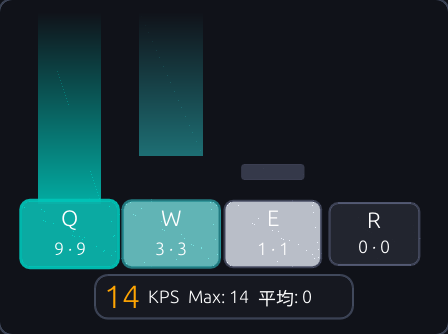
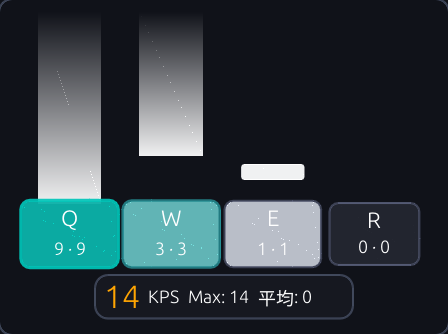
feat(kps): 键雨固定颜色 + 按排递进宽度与不透明度
- 多层键位时第 1 排永远保持原始宽度与不透明度，第 2 排起逐排收窄（x0.85）并变淡（x0.72）
  修「前后两列的键同时按时第一列键雨变窄」
- 键雨颜色与 KPS 热度解耦，固定取 kps_rain_color（默认纯白），设置窗口可取色
- 新增第 4 张 HUD 截图场景 kps-rain-rows 与 debug_set_kps_keys
- README/docs 同步：分排效果说明 + kps_rain_color + 新增 screenshot-kps-rain-rows.png

Changed region(s): [[0.0625, 0.0898, 0.25, 0.5988], [0.3125, 0.0599, 0.4688, 0.479], [0.5312, 0.479, 0.6875, 0.5389]]

diff --git a/src/gui/rain.rs b/src/gui/rain.rs
@@ -16,8 +16,14 @@
 //! 坐标约定：
 //! - `speed` 由「走完整个轨道要几毫秒」换算（换轨道高度不改观感）；
 //! - 渐隐带固定在**轨道顶部 1/3**：进入 [2H/3, H] 后从满亮线性淡到 0，H 以上完全不可见；
-//! - 条宽 = 键格宽 × 0.72（**略窄于键格**，看起来是键格上长出的一根柱子）；
-//! - 多排布局时第 2 排起逐排**变窄 + 加深一档**，所有排共用同一条轨道（轨道底边 = 第一排键格顶边）。
+//! - 条宽 = 键格宽 × `kps_rain_width_pct`（**略窄于键格**，看起来是键格上长出的一根柱子）；
+//! - 颜色固定取 `kps_rain_color`（默认纯白），**不随 KPS 热度变色** —— 雨是"运动轨迹"，
+//!   跟着热度变色会让人误以为自己按多快，而且和键格本身的发光混在一起看不出层次。
+//!
+//! 多层布局（`kps_keys` 里换行 = 分行）：所有排共用同一条轨道（轨道底边 = 第一排键格顶边），
+//! 但**排号越大越窄、越透明**（`ROW_WIDTH_STEP` / `ROW_ALPHA_STEP`）：
+//! 第一排永远是原始宽度与不透明度，第二排起逐排收窄并降低 alpha。这样两排同一竖线上的键
+//! 同时按下时，能看到"前景窄条叠在背景宽条上"，而不是两个同宽条糊成一块。
 //!
 //! 来源（样式参照）：https://github.com/adofaiex/JipperKeyViewer
 
@@ -31,8 +37,11 @@ const BAR_W_RATIO: f32 = 0.72;
 /// 条宽绝对上下限（px）：极小缩放下不至于细成线，极大缩放下不至于糊成整块。
 const BAR_W_MIN: f32 = 4.0;
 const BAR_W_MAX: f32 = 64.0;
-/// 每排键格的递进系数：第 2 排起宽度 ×0.85、颜色加深一档。
+/// 排间宽度递进系数：第 1 排 ×1.00（原始宽度），第 2 排 ×0.85，第 3 排 ×0.72…
 const ROW_WIDTH_STEP: f32 = 0.85;
+/// 排间不透明度递进系数：第 1 排 ×1.00，第 2 排 ×0.72，第 3 排 ×0.52…
+/// **只降 alpha，不改颜色** —— 靠压暗颜色做层次会在深色背景上变成一团脏灰。
+const ROW_ALPHA_STEP: f32 = 0.72;
 /// 取样窗口（秒）。**故意给得远大于"走完一条轨道"**：
 /// 松手后的雨还要继续上飘、还要能被裁短，若窗口等于走完轨道的时间，
 /// 松手瞬间整条雨就会因为"按下太久"被丢掉 —— 那正是"松手即消失"的根因。
@@ -83,21 +92,13 @@ fn fade_at(d_from_top: f32, h: f32) -> f32 {
     d_from_top.max(0.0).min(band) / band
 }
 
-/// 键雨的基准色：跟随该键热力（与键格边框同源）。
-/// `dim` = 额外压暗档位（多排递进用，0 = 不压）。
-fn rain_color(heat: f32, alpha: u8, dim: u32) -> Color32 {
-    let (_, border, _) = key_heat_style(heat, 0.0);
-    let c = border.color.to_array();
-    if dim == 0 {
-        return Color32::from_rgba_unmultiplied(c[0], c[1], c[2], alpha);
-    }
-    let f = (1.0 - 0.18 * dim as f32).max(0.3);
-    Color32::from_rgba_unmultiplied(
-        (c[0] as f32 * f) as u8,
-        (c[1] as f32 * f) as u8,
-        (c[2] as f32 * f) as u8,
-        alpha,
-    )
+/// 键雨的固定基色（`kps_rain_color`，默认纯白）。
+///
+/// **不跟随 KPS 热度**：雨条是"这次按压的运动轨迹"，与手速无关；跟着热度变色会让同一个键
+/// 在不同时刻呈现不同颜色，和键格自身的发光混在一起反而看不出层次。
+pub(crate) fn rain_base_color(cfg: &Config) -> Color32 {
+    let c = cfg.kps_rain_color;
+    Color32::from_rgb(c[0], c[1], c[2])
 }
 
 /// 画一帧键雨（无状态：整条雨每帧从按压区间纯几何重建）。
@@ -117,14 +118,19 @@ pub(crate) fn paint_kps_rain(
     let h = rain_area.height();
     let speed = rain_px_per_sec(cfg);
     let opacity = cfg.kps_rain_opacity.min(100) as f32 / 100.0;
+    let base = rain_base_color(cfg);
     let painter = ui.painter().with_clip_rect(rain_area);
     let row_pos = key_rows_layout(&layout.rows, m.box_w, m.graph_w);
 
-    // 轨道底边 = 第一排键格顶边；多排布局下所有排共用同一条轨道。
+    // 轨道底边 = 第一排键格顶边；多层布局下所有排共用同一条轨道。
     let cell_top = rain_area.bottom();
 
     let mut info_idx = 0usize;
     for (row, cells) in layout.rows.iter().enumerate() {
+        // 排间递进：第 1 排（row = 0）恒为 1.00，即**原始宽度与原始不透明度**。
+        // 这一点是硬约束：只要第一排按过键，它的雨就必须和你单独按它时一模一样。
+        let step = ROW_WIDTH_STEP.powi(row as i32);
+        let alpha_scale = ROW_ALPHA_STEP.powi(row as i32);
         for (cell_idx, cell) in cells.iter().enumerate() {
             let Some(&(x_off, box_w)) = row_pos.get(row).and_then(|r| r.get(cell_idx)) else {
                 break;
@@ -133,9 +139,9 @@ pub(crate) fn paint_kps_rain(
                 info_idx += 1; // 空位：占地方，不画不统计
                 continue;
             }
-            let Some(k) = kd.key_infos.get(info_idx) else {
+            if kd.key_infos.get(info_idx).is_none() {
                 break;
-            };
+            }
             let idx = info_idx;
             info_idx += 1;
             let Some(spans) = kd.rain.get(idx) else {
@@ -145,9 +151,6 @@ pub(crate) fn paint_kps_rain(
                 continue;
             }
             let cx = rain_area.left() + x_off + box_w * 0.5;
-            let heat = crate::stats::kps_key_heat(k.kps);
-            let step = ROW_WIDTH_STEP.powi(row as i32);
-            let dim = row.min(3) as u32;
             let w = (box_w * rain_width_ratio(cfg)).clamp(BAR_W_MIN, BAR_W_MAX) * step;
 
             for &(start_age, end_age) in spans {
@@ -174,7 +177,7 @@ pub(crate) fn paint_kps_rain(
                     continue;
                 }
                 emit_bar(
-                    &painter, cx, w, cell_top, vis_top, vis_bottom, h, opacity, heat, dim,
+                    &painter, cx, w, cell_top, vis_top, vis_bottom, h, opacity, base, alpha_scale,
                 );
             }
         }
@@ -192,16 +195,17 @@ fn emit_bar(
     vis_bottom: f32,
     h: f32,
     opacity: f32,
-    heat: f32,
-    dim: u32,
+    base: Color32,
+    alpha_scale: f32,
 ) {
     let a_top = fade_at(h - vis_top, h);
     let a_bot = fade_at(h - vis_bottom, h);
-    let alpha_top = (a_top * opacity * 255.0).round() as u8;
-    let alpha_bot = (a_bot * opacity * 255.0).round() as u8;
+    let alpha_top = (a_top * opacity * alpha_scale * 255.0).round() as u8;
+    let alpha_bot = (a_bot * opacity * alpha_scale * 255.0).round() as u8;
     if alpha_top == 0 && alpha_bot == 0 {
         return;
     }
+    let tint = |a: u8| Color32::from_rgba_unmultiplied(base.r(), base.g(), base.b(), a);
     // vis_* 是「距键格顶边的高度」：数值大的一端离**轨道顶**近，在屏幕上更靠上（y 更小）。
     // Rect::from_min_max 要求 min <= max，而这里 vis 越大 y 越小，两者方向相反 ——
     // 必须显式取 min/max，否则画出来是空矩形（rect_filled 直接不可见，
@@ -214,15 +218,15 @@ fn emit_bar(
         painter.rect_filled(
             Rect::from_min_max(Pos2::new(xl, y_hi), Pos2::new(xr, y_lo)),
             1.5,
-            rain_color(heat, alpha_bot, dim),
+            tint(alpha_bot),
         );
     } else {
         // 跨渐隐带：Mesh 顶点色做竖向渐变
         let mut mesh = egui::Mesh::default();
-        mesh.colored_vertex(Pos2::new(xl, y_a), rain_color(heat, alpha_top, dim));
-        mesh.colored_vertex(Pos2::new(xr, y_a), rain_color(heat, alpha_top, dim));
-        mesh.colored_vertex(Pos2::new(xl, y_b), rain_color(heat, alpha_bot, dim));
-        mesh.colored_vertex(Pos2::new(xr, y_b), rain_color(heat, alpha_bot, dim));
+        mesh.colored_vertex(Pos2::new(xl, y_a), tint(alpha_top));
+        mesh.colored_vertex(Pos2::new(xr, y_a), tint(alpha_top));
+        mesh.colored_vertex(Pos2::new(xl, y_b), tint(alpha_bot));
+        mesh.colored_vertex(Pos2::new(xr, y_b), tint(alpha_bot));
         mesh.add_triangle(0, 1, 2);
         mesh.add_triangle(1, 3, 2);
         painter.add(egui::Shape::mesh(mesh));

diff --git a/src/softshot.rs b/src/softshot.rs
@@ -2517,6 +2517,8 @@ mod tests {
         // 而重复喂击键又会让 KPS 时间轴越叠越高（踩过：KPS 虚高到 112、最新一根柱顶满）。
         // 顺序固定：清空 → 键格基础打点 → 图的历史柱 → 键雨的击键。
         let today_feed = today.clone();
+        // 多个场景闭包各持一份，避免 move 之后互相抢所有权
+        let today_rows = today.clone();
         let feed_scene = move |app: &mut App| {
             app.debug_reset_kps();
             // 键格的冷热（Q 最热 → 青绿边框）
@@ -2665,6 +2667,49 @@ mod tests {
         let p4 = capture(&mut app, &ctx, &mut shot_textures, "kps-rain-both", true, &feed_scene, false, &hud_spec);
         assert!(p4.exists());
 
+        // 4) 两排键同时按：验证「第一排宽度/不透明度不变，第二排起逐排变窄变淡」
+        //    —— 这是用户报的 bug：两排同列同时按时，雨的宽度不该互相影响，
+        //    否则第一排会莫名其妙变窄。这里两排每次都按满，第一排 Q/W/E 必须保持原宽。
+        app.debug_set_kps_keys("Q, W, E\nA, S, D");
+        {
+            let feed_rows = move |app: &mut App| {
+                app.debug_reset_kps();
+                for _ in 0..5 {
+                    app.debug_record_kps_key(&today_rows, "Q");
+                    app.debug_record_kps_key(&today_rows, "A");
+                }
+                for _ in 0..3 {
+                    app.debug_record_kps_key(&today_rows, "W");
+                    app.debug_record_kps_key(&today_rows, "S");
+                }
+                app.debug_record_kps_key(&today_rows, "E");
+                app.debug_record_kps_key(&today_rows, "D");
+                // 两排同列（第 1 列 / 第 2 列）同时按住，看宽度是否互相干扰
+                for (key, start, end) in [
+                    ("Q", 3000u64, None),
+                    ("A", 3000, None),
+                    ("W", 2000, Some(600)),
+                    ("S", 2000, Some(600)),
+                    ("E", 900, Some(400)),
+                    ("D", 900, Some(400)),
+                ] {
+                    app.debug_push_hold(key, start, end);
+                }
+            };
+            let p5 = capture(
+                &mut app,
+                &ctx,
+                &mut shot_textures,
+                "kps-rain-rows",
+                true,
+                &feed_rows,
+                false,
+                &hud_spec,
+            );
+            assert!(p5.exists());
+        }
+        app.debug_set_kps_keys("Q, W, E, R");
+
         // —— 再拍一张 APM 胶囊条特写（宽度贴合内容）——
         app.hud_kps_show = false;
         app.hud_apm_show = true;
@@ -2684,7 +2729,11 @@ mod tests {
     fn render_kps_settings_shot() {
         let dir = std::env::var("KMCOUNTER_HUD_SHOT_DIR").unwrap_or_else(|_| "/tmp/kmc-hud-shot".into());
         std::fs::create_dir_all(&dir).unwrap();
-        let (mut app, ctx) = headless_app(store_with_days(5));
+        // 把键雨打开：设置窗里的「键雨宽度 / 速度 / 高度 / 不透明度 / 颜色」整组都出现，
+        // 才算把「下拉框、数值框、颜色按钮的文字看不看得清」一起覆盖到。
+        let mut cfg = Config::default();
+        cfg.kps_show_rain = true;
+        let (mut app, ctx) = headless_app_with_cfg(store_with_days(5), cfg);
         app.hud_kps_show = false;
         app.debug_set_cfg_open(false, true);
         let s: &'static crate::lang::Strings = crate::lang::strings(crate::lang::Lang::En);

diff --git a/src/gui/hud.rs b/src/gui/hud.rs
@@ -1151,6 +1151,7 @@ impl App {
         cfg.kps_rain_speed = self.cfg.kps_rain_speed;
         cfg.kps_rain_height = self.cfg.kps_rain_height;
         cfg.kps_rain_opacity = self.cfg.kps_rain_opacity;
+        cfg.kps_rain_color = self.cfg.kps_rain_color;
         cfg.kps_key_bounce = self.cfg.kps_key_bounce;
         cfg.kps_groups = self.cfg.kps_groups.clone();
         cfg.kps_show_groups = self.cfg.kps_show_groups;
@@ -1735,6 +1736,23 @@ impl App {
             }
             ui.label(egui::RichText::new("%").color(HUD_TEXT));
         });
+        // 键雨颜色：默认纯白。键雨**不跟随 KPS 热度**，所以颜色必须能在设置里自己调。
+        ui.horizontal(|ui| {
+            ui.label(egui::RichText::new(s.kps_rain_color).color(HUD_TEXT));
+            if ui.color_edit_button_srgb(&mut self.cfg.kps_rain_color).changed() {
+                act.dirty = true;
+            }
+            ui.label(
+                egui::RichText::new(format!(
+                    "#{:02X}{:02X}{:02X}",
+                    self.cfg.kps_rain_color[0],
+                    self.cfg.kps_rain_color[1],
+                    self.cfg.kps_rain_color[2]
+                ))
+                .small()
+                .color(Color32::from_rgb(0xC8, 0xCC, 0xD4)),
+            );
+        });
     }
 
     /// 分组 KPS：勾选 + 多行文本编辑（一行一组，组名=A,S,D,F）
@@ -1906,6 +1924,13 @@ impl App {
         c.kps_show_rain = show;
         c.kps_show_graph = graph;
         c.kps_rain_speed = speed;
+    }
+
+    /// 截图用：直接改共享配置里的监控键（换行 = 分行），用来验证多层排布
+    #[cfg(feature = "softshot")]
+    #[allow(dead_code)]
+    pub(crate) fn debug_set_kps_keys(&mut self, keys: &str) {
+        self.cfg_shared.lock().kps_keys = keys.to_string();
     }
 
     #[cfg(feature = "softshot")]
@@ -2347,6 +2372,7 @@ pub(crate) fn copy_hud_fields(from: &crate::config::Config, to: &mut crate::conf
     to.kps_rain_speed = from.kps_rain_speed;
     to.kps_rain_height = from.kps_rain_height;
     to.kps_rain_opacity = from.kps_rain_opacity;
+    to.kps_rain_color = from.kps_rain_color;
     to.kps_key_bounce = from.kps_key_bounce;
     to.kps_groups = from.kps_groups.clone();
     to.kps_show_groups = from.kps_show_groups;

diff --git a/src/lang.rs b/src/lang.rs
@@ -254,6 +254,7 @@ pub struct Strings {
     pub kps_rain_speed: &'static str,
     pub kps_rain_height: &'static str,
     pub kps_rain_height_auto: &'static str,
+    pub kps_rain_color: &'static str,
     pub kps_rain_opacity: &'static str,
     pub kps_key_bounce: &'static str,
     pub kps_groups: &'static str,
@@ -506,6 +507,7 @@ const ZH: Strings = Strings {
     kps_rain_speed: "键雨速度（ms/轨道）",
     kps_rain_height: "键雨高度",
     kps_rain_height_auto: "自动",
+    kps_rain_color: "键雨颜色",
     kps_rain_opacity: "键雨不透明度",
     kps_key_bounce: "按键弹跳",
     kps_groups: "分组 KPS",
@@ -758,6 +760,7 @@ const EN: Strings = Strings {
     kps_rain_speed: "Rain speed (ms/track)",
     kps_rain_height: "Rain height",
     kps_rain_height_auto: "Auto",
+    kps_rain_color: "Rain color",
     kps_rain_opacity: "Rain opacity",
     kps_key_bounce: "Key bounce",
     kps_groups: "Group KPS",

diff --git a/src/config.rs b/src/config.rs
@@ -106,6 +106,9 @@ pub struct Config {
     pub kps_rain_width_pct: u8,
     /// 键雨不透明度（0~100）
     pub kps_rain_opacity: u8,
+    /// 键雨颜色（RGB，默认纯白）。键雨**不跟随 KPS 热度变色** —— 雨条是「这次按压的
+    /// 运动轨迹」，跟着手速变色会和键格自身的发光混在一起，看不出层次。
+    pub kps_rain_color: [u8; 3],
     /// 键格按压弹跳：按下瞬间放大再回弹（对齐 JipperKeyViewer 的 KeyShapeLayer）
     pub kps_key_bounce: bool,
     /// 按组 KPS 分组定义：一行一组，格式 `组名=A,S,D,F`（组名可省略）
@@ -178,6 +181,7 @@ impl Default for Config {
             kps_rain_height: 96,
             kps_rain_width_pct: 72,
             kps_rain_opacity: 85,
+            kps_rain_color: [255, 255, 255],
             kps_key_bounce: true,
             kps_groups: String::new(),
             kps_show_groups: false,

diff --git a/README.md b/README.md
@@ -36,6 +36,10 @@
 | --- | --- |
 | ![键雨与 KPS 图](docs/screenshot-kps-rain-both.png) | ![APM 胶囊条](docs/screenshot-apm-hud.png) |
 
+两排键同时按住时的分排效果（第一排保持原宽原色，第二排起逐排变窄变淡）：
+
+![键雨分排](docs/screenshot-kps-rain-rows.png)
+
 ## 功能
 
 - **键盘热力图**：复刻原版布局（主键区 + 导航区 + 数字键盘区），并补上原版缺的 **PrtSc / ScrLk / Pause** 三个系统键——它们**按控制键区管理**（画在控制键区顶部一行，统计也计入控制键区）；按键越常按颜色越深（莫兰迪渐变 `#EEEEEE → #B26C65`）；鼠标悬停按键显示当日敲击次数。**方向键上方空着的 5 个格子**画了鼠标左/中/右键与滚轮/侧键：它们用**独立的绿色计数池**（量程只看这五个键，与键盘的红系互不影响，所以滚轮 5000 次和键盘最多 100 次可以各自到最深色），悬停显示各自计数
@@ -59,7 +63,7 @@
 - **设置**：历史保留天数、显示器物理尺寸、热力图键宽/键高/间距、**界面语言（跟随系统 / 中文 / English）**、窗口行为与**分时阈值**，保存立即生效（与统计列表同一套浅色风格，左右并排展开；设置表单按「历史数据 + 屏幕尺寸 / 键盘布局 / 语言 + 窗口 + 数据校验」**分三栏**排列，展开后高度更紧凑）；切换语言会同时更新窗口标题与托盘菜单，没有中文字体时中文自动回退英文并给出提示
 - **主流多配列键盘支持**：除标准 104 键外，原生支持 **98键（紧凑全尺寸）、87键（TKL）、84键（75%）、68键（65%）、64键（GK64）、60键** 等主流键盘配列切换与自适应画布，小配列下分时折线图与钟点控制紧凑排布；为 Fn 键分配独立按键定义（`FN_INDEX 104`），彻底解除与 Menu 键的绑定冲突；设置面板自适应防溢出，在各类小配列及中英双语下保持整洁排版
 - **实时 APM 与独立 HUD 胶囊悬浮窗**：高精度实时 APM 统计（滑动窗口 5~300 秒可调，**数值 = 窗口内的动作数**：60 秒窗口下点一次就是 1 APM，窗口调短也不会放大倍率）；采用独立多视口架构打造 **32 高、宽度贴合内容的超紧凑无边框置顶暗黑胶囊条**（显示项越多越宽，右侧不再留空），可与主程序无缝并存；显示实时 APM、今日最高峰值 APM 与今日敲击数（键盘 / 鼠标点击 / 移动距离三项可在设置里逐项开关）。**胶囊条本身只有数据、没有任何按钮**：按住拖动移动、双击呼出主程序、**右键打开它自己的设置窗口**（统计窗口长度、显示项、**缩放 60~400%**、**限制在屏幕内**、不透明度、重置峰值、呼出主程序、关闭悬浮窗）。**KDE 下「置顶」由自动写入的 KWin 规则强制生效**（Wayland 没有置顶协议，winit 的 `always_on_top` 是空实现），非 KDE 的 Wayland 桌面只能保持普通窗口层级
-- **KPS 手速与按键发光监控悬浮窗**：参照 `osu-kps` 与 `KeysPerSecond` 实现的独立置顶透明悬浮窗；**KPS 速率只统计设置里监控的那些键**（打字与其它按键不会把数字抬起来，单键累计次数照旧各键各记）；提供**按住保持点亮 + 松开 50→250ms 淡出**的按键发光反馈（对齐 osu-kps 的 down/up 动画，**长按期间不会中途熄灭**）、**每个键格同时显示该键的累计次数与它自己的 KPS**、实时 KPS 速率、Max 峰值、平均 KPS（自上次重置起的会话平均，对齐 KeysPerSecond 的 AVG 计数器）与动态速率变色阶（**键格颜色对齐 osu-kps 的两条动画**：边框色相按该键自己的 KPS 经 2→4 次/秒的 sigmoid 插值渐入，按压频率降下来时沿原路缓慢退回；底板在按下瞬间亮起、随后 50→250ms 淡出——慢速按下闪浅灰、高速按下闪青绿）。**布局是可自由组合的几块 —— 键雨 / 键位 / 数据 / 分组 / 图**：最上面是**按键雨**（对齐 JipperKeyViewer 的 RainLayer，但这里是**无状态几何重建**：每帧从「每个键的按压区间」直接算出整条雨，按住期间**持续发射**、松手即停，已发射出去的部分**不停下**——长度定格后整条继续按原速上飘，前沿越过轨道顶后改从**底部**被逐段裁掉，直到整条出顶才消失（对齐 JipperKeyViewer 的 `sizeY = FinalSize.y - dropY + height`）；竖条从键格顶边向上长成连续一根，**条宽默认键格宽的 72%**（略窄于键格，两侧各留约 14% 的边，可在 20~100% 之间调）；渐隐带固定在**轨道顶部 1/3**（进入后线性淡到 0）；速度配置的是**走完整个轨道要多少毫秒**（200~20000，默认 1200 —— 换轨道高度不改观感）、轨道高度 16~400 像素（默认 96）、不透明度 0~100%，多排键位时第 2 排起逐排变窄并压暗一档，所有排共用同一条轨道），再下面是键格（可多行；**每行缝隙等宽、按键左右对称**——两侧边距与键缝一样宽，右侧不会空出一大块；**按压弹跳**让按下的键格瞬间放大 7.5% 再回弹，对齐 JipperKeyViewer 的 KeyShapeLayer），中间一行数据（**当前 KPS · Max · 平均**，数字按实测宽度往后排，KPS 到两三位数也不会和标签挤在一起），**分组 KPS 行**（把键位任意拆组、逐组显示「组名 速率 KPS (次数)」，例如左手 A,S,D,F、右手 J,K,L,；——对齐 JipperKeyViewer 的 GroupId；写法是一行一组 `组名=键1,键2`，组名可省略），最下面是**整宽的 KPS 图**（KPS 与 APM 定位不同，窗口比胶囊条大得多）。**键雨与 KPS 图是两个互相独立的开关，三种组合都成立**：只开图 = osu-kps 式的经典柱状图；只开键雨 = JipperKeyViewer 式的纯击键轨迹；两者都开则既有瞬时轨迹也有历史趋势（信息量最高，是本项目的差异点）；都关则只留键格与数字，压缩成一条极简计时条。**KPS 图**（参照 osu-kps）：按**整秒分桶**的历史柱状图（每秒一根柱，峰值一秒后自然左移消失，不会拖尾）、叠一条平均线，悬停显示该时段内的最大 KPS，图时长可调（10~300 秒，默认 300）；**计算方式**可选 `硬算`（严格数统计窗口内的次数，稳定）或 `灵敏`（对齐 osu-kps：只看最近 2.5 秒、单次击键最多算 1.5，连击时贴近真实速率、停下来立刻回落）；**键格布局直接写在「监控按键」里**（零学习成本的一套小语法，设置窗口里是多行输入框）：**换行 = 分行**（不写换行时每行最多 12 个自动换行）；**空项 = 空位**（`,,H,J` 把 H、J 挪到第 3、4 列）；**数字前缀 = 宽度倍数**（`1.5H` 让 H 占 1.5 格、`4H` 占 4 格）；**自适应键宽**（可勾选开关）让**最后一行的键平分整行宽度 —— 如 5 格宽的行上放 `H,J`，两者各 2.5 格宽**。**缩放**（60~400%）与**限制在屏幕内**都在**它自己的设置窗口**里（右键悬浮窗打开）；**键位设置**参照 osu-kps：填「键数」N 后点「设置键位」，程序会依次记录你按下的 N 个键作为监控键（默认键位是 `qwertyuiopasdfghjklzxcvbnm` 的前 N 个，如 6 键 = q,w,e,r,t,y，也可以点「默认键位」一键恢复）；按键格子 / 统计信息 / KPS 图 / 按键雨 / 分组 KPS 五块可分别开关；**重置**是个下拉菜单（对齐 osu-kps）：可分别清空**按键总次数 / 最大 KPS / KPS 图**，或一键**以上所有**（平均 KPS 也从头算）。两个悬浮窗都会**静默记忆上次拖放的位置**（写进配置文件，重启 / 重新登录后回到原位，无设置项；「限制在屏幕内」开启时恢复的位置若在屏幕外会被自动推回）。位置记忆与屏幕内限制在 Windows / X11 / KDE Wayland 上可用（KDE 走 KWin 脚本通道），其它 Wayland 桌面因协议限制不可用。悬浮窗与其设置窗口的文字都是白色，深色底上看得清；不读取任何其它程序的窗口状态
+- **KPS 手速与按键发光监控悬浮窗**：参照 `osu-kps` 与 `KeysPerSecond` 实现的独立置顶透明悬浮窗；**KPS 速率只统计设置里监控的那些键**（打字与其它按键不会把数字抬起来，单键累计次数照旧各键各记）；提供**按住保持点亮 + 松开 50→250ms 淡出**的按键发光反馈（对齐 osu-kps 的 down/up 动画，**长按期间不会中途熄灭**）、**每个键格同时显示该键的累计次数与它自己的 KPS**、实时 KPS 速率、Max 峰值、平均 KPS（自上次重置起的会话平均，对齐 KeysPerSecond 的 AVG 计数器）与动态速率变色阶（**键格颜色对齐 osu-kps 的两条动画**：边框色相按该键自己的 KPS 经 2→4 次/秒的 sigmoid 插值渐入，按压频率降下来时沿原路缓慢退回；底板在按下瞬间亮起、随后 50→250ms 淡出——慢速按下闪浅灰、高速按下闪青绿）。**布局是可自由组合的几块 —— 键雨 / 键位 / 数据 / 分组 / 图**：最上面是**按键雨**（对齐 JipperKeyViewer 的 RainLayer，但这里是**无状态几何重建**：每帧从「每个键的按压区间」直接算出整条雨，按住期间**持续发射**、松手即停，已发射出去的部分**不停下**——长度定格后整条继续按原速上飘，前沿越过轨道顶后改从**底部**被逐段裁掉，直到整条出顶才消失（对齐 JipperKeyViewer 的 `sizeY = FinalSize.y - dropY + height`）；竖条从键格顶边向上长成连续一根，**条宽默认键格宽的 72%**（略窄于键格，两侧各留约 14% 的边，可在 20~100% 之间调）；渐隐带固定在**轨道顶部 1/3**（进入后线性淡到 0）；速度配置的是**走完整个轨道要多少毫秒**（200~20000，默认 1200 —— 换轨道高度不改观感）、轨道高度 16~400 像素（默认 96）、不透明度 0~100%，多排键位时**第 1 排永远保持原始宽度与原始不透明度，第 2 排起逐排收窄并变淡**（宽度 ×0.85、不透明度 ×0.72 逐排递进，第 3 排再乘一次），所有排共用同一条轨道 —— 这样两排同一竖线上的键同时按下时，看到的是「前景窄条叠在背景宽条上」，而不是两个同宽条糊成一块；**雨条颜色是固定的**（默认纯白，设置窗口里可取色自定义），**不随 KPS 热度变色** —— 雨是这一次按压的运动轨迹，跟着热度变色会让人误以为自己按得很快，也会和键格本身的发光混在一起看不出层次），再下面是键格（可多行；**每行缝隙等宽、按键左右对称**——两侧边距与键缝一样宽，右侧不会空出一大块；**按压弹跳**让按下的键格瞬间放大 7.5% 再回弹，对齐 JipperKeyViewer 的 KeyShapeLayer），中间一行数据（**当前 KPS · Max · 平均**，数字按实测宽度往后排，KPS 到两三位数也不会和标签挤在一起），**分组 KPS 行**（把键位任意拆组、逐组显示「组名 速率 KPS (次数)」，例如左手 A,S,D,F、右手 J,K,L,；——对齐 JipperKeyViewer 的 GroupId；写法是一行一组 `组名=键1,键2`，组名可省略），最下面是**整宽的 KPS 图**（KPS 与 APM 定位不同，窗口比胶囊条大得多）。**键雨与 KPS 图是两个互相独立的开关，三种组合都成立**：只开图 = osu-kps 式的经典柱状图；只开键雨 = JipperKeyViewer 式的纯击键轨迹；两者都开则既有瞬时轨迹也有历史趋势（信息量最高，是本项目的差异点）；都关则只留键格与数字，压缩成一条极简计时条。**KPS 图**（参照 osu-kps）：按**整秒分桶**的历史柱状图（每秒一根柱，峰值一秒后自然左移消失，不会拖尾）、叠一条平均线，悬停显示该时段内的最大 KPS，图时长可调（10~300 秒，默认 300）；**计算方式**可选 `硬算`（严格数统计窗口内的次数，稳定）或 `灵敏`（对齐 osu-kps：只看最近 2.5 秒、单次击键最多算 1.5，连击时贴近真实速率、停下来立刻回落）；**键格布局直接写在「监控按键」里**（零学习成本的一套小语法，设置窗口里是多行输入框）：**换行 = 分行**（不写换行时每行最多 12 个自动换行）；**空项 = 空位**（`,,H,J` 把 H、J 挪到第 3、4 列）；**数字前缀 = 宽度倍数**（`1.5H` 让 H 占 1.5 格、`4H` 占 4 格）；**自适应键宽**（可勾选开关）让**最后一行的键平分整行宽度 —— 如 5 格宽的行上放 `H,J`，两者各 2.5 格宽**。**缩放**（60~400%）与**限制在屏幕内**都在**它自己的设置窗口**里（右键悬浮窗打开）；**键位设置**参照 osu-kps：填「键数」N 后点「设置键位」，程序会依次记录你按下的 N 个键作为监控键（默认键位是 `qwertyuiopasdfghjklzxcvbnm` 的前 N 个，如 6 键 = q,w,e,r,t,y，也可以点「默认键位」一键恢复）；按键格子 / 统计信息 / KPS 图 / 按键雨 / 分组 KPS 五块可分别开关；**重置**是个下拉菜单（对齐 osu-kps）：可分别清空**按键总次数 / 最大 KPS / KPS 图**，或一键**以上所有**（平均 KPS 也从头算）。两个悬浮窗都会**静默记忆上次拖放的位置**（写进配置文件，重启 / 重新登录后回到原位，无设置项；「限制在屏幕内」开启时恢复的位置若在屏幕外会被自动推回）。位置记忆与屏幕内限制在 Windows / X11 / KDE Wayland 上可用（KDE 走 KWin 脚本通道），其它 Wayland 桌面因协议限制不可用。悬浮窗与其设置窗口的文字都是白色，深色底上看得清；不读取任何其它程序的窗口状态
 - **托盘常驻**：统计 / 设置 / 开机启动 / 退出；点击托盘图标打开统计窗口
 - **只统计物理输入**：Windows 忽略注入输入（LLKHF_INJECTED），Linux 跳过 uinput 虚拟设备（与原版"区分真实模拟"一致）
 - **开机启动**：Windows 写注册表 Run 键，Linux 写 `~/.config/autostart/*.desktop`
@@ -221,6 +225,7 @@ kps_rain_width_pct = 72 # 键雨条宽占键格宽的百分比（20~100；默认
 kps_rain_speed = 1200  # 键雨走完整个轨道要多少毫秒（200~20000）；改轨道高度不影响观感
 kps_rain_height = 96   # 键雨轨道高度（像素，16~400；0 = 自动取 96）
 kps_rain_opacity = 85  # 键雨不透明度（0~100）
+kps_rain_color = [255, 255, 255] # 键雨颜色（RGB）。不随 KPS 热度变色，恒定一种颜色
 kps_key_bounce = true  # 键格按压弹跳：按下瞬间放大再回弹（对齐 JipperKeyViewer 的 KeyShapeLayer）
 kps_groups = ""        # 分组 KPS：一行一组，格式 组名=A,S,D,F（组名可省略）
 kps_show_groups = false # KPS 悬浮窗是否显示分组 KPS 行
